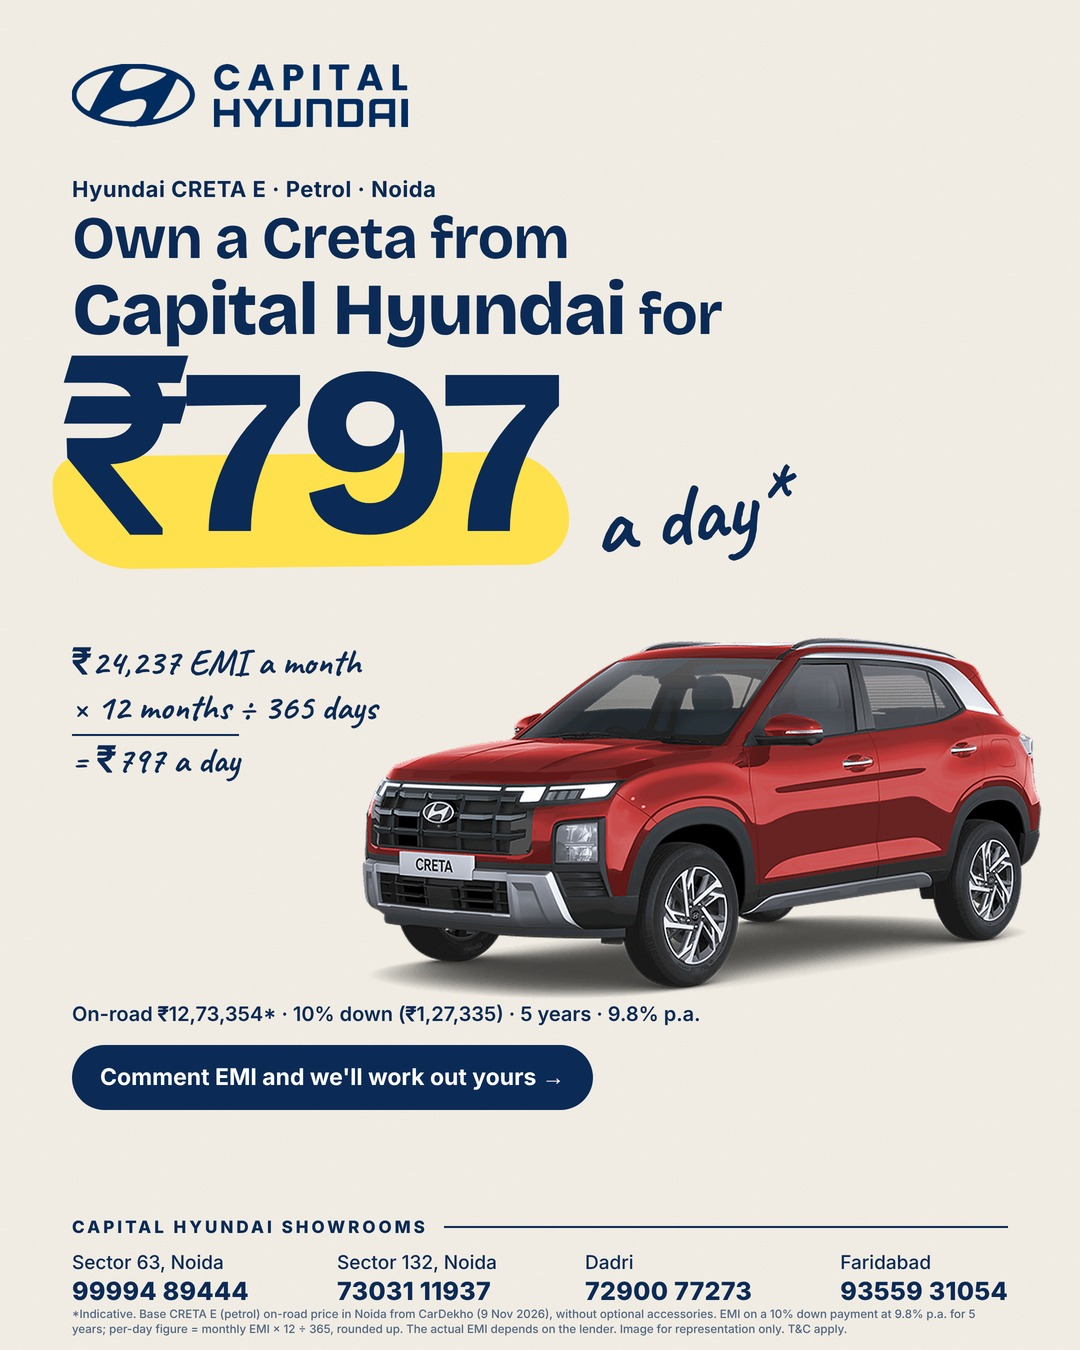
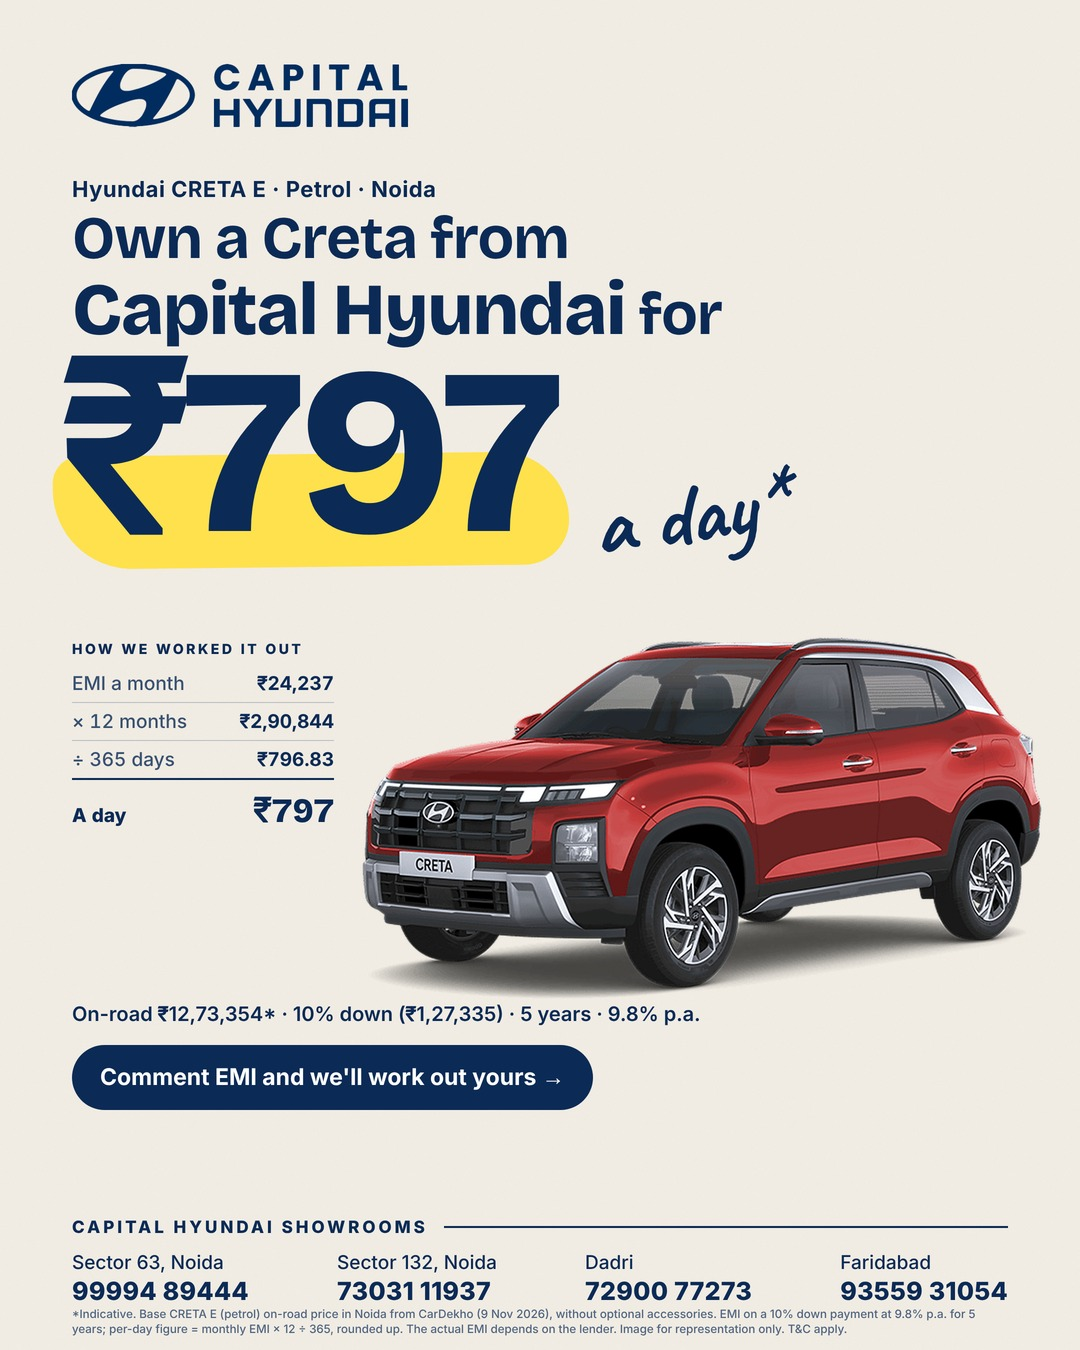
Capital EMI posts: typeset the per-day working instead of handwriting
Claude-Session: https://claude.ai/code/session_01M3cxh6DXP8nRoWZuXRG63R

Changed region(s): [[0.0611, 0.4667, 0.3361, 0.6222]]

diff --git a/statics/review_card/ch2.html b/statics/review_card/ch2.html
@@ -58,8 +58,12 @@ footer{position:absolute;left:72px;right:72px;bottom:44px;z-index:3}
 .em .big{position:absolute;left:62px;top:var(--bt,272px);font-family:Brico;font-weight:800;font-size:var(--bs,250px);letter-spacing:-8px;line-height:1;z-index:2}
 .em .big mark:before{top:.6em;bottom:.12em;left:-.04em;right:-.06em}
 .em .car{position:absolute;z-index:2}
-.calc{position:absolute;left:72px;top:var(--ct2,600px);z-index:3;font-family:Hand;font-weight:700;font-size:36px;line-height:1.25}
-.calc .ln{display:inline-block;border-top:2.5px solid var(--navy);margin-top:4px;padding-top:2px}
+.calc{position:absolute;left:72px;top:var(--ct2,600px);width:var(--cw2,286px);z-index:3;font-family:Inter;font-variant-numeric:tabular-nums}
+.calc .ch{font-weight:800;font-size:14px;letter-spacing:2.5px;margin-bottom:8px}
+.calc .r{display:flex;justify-content:space-between;align-items:baseline;padding:7px 0;border-bottom:1px solid rgba(11,42,85,.22);font-size:19px}
+.calc .r span{font-weight:500;opacity:.8}.calc .r b{font-weight:700}
+.calc .t{display:flex;justify-content:space-between;align-items:baseline;padding-top:9px;border-top:2px solid var(--navy);margin-top:-1px}
+.calc .t span{font-weight:800;font-size:19px}.calc .t b{font-family:Brico;font-weight:800;font-size:34px;letter-spacing:-.5px}
 .det{position:absolute;left:72px;right:72px;top:var(--dt,1000px);font-weight:600;font-size:20px;line-height:1.45;z-index:3}
 .pill{display:inline-flex;align-items:center;gap:12px;background:var(--navy);color:#fff;border-radius:60px;padding:16px 28px;font-weight:700;font-size:23px;margin-top:16px}
 /* spec */
@@ -133,7 +137,7 @@ function render(c){
   <div class="stars"><i>★★★★★</i>${c.when||''}</div><div class="rtext">${c.text}</div></div>`;
  } else if(c.kind==='emiday'){
   h+=`<div class="kick">${c.kicker}</div><div class="l1">${c.l1}</div><div class="big">${c.big}</div>${car(c)}
-  <div class="calc">${c.calc}</div><div class="det">${c.det}<br><span class="pill">${c.cta}</span></div>`;
+  <div class="calc">${Array.isArray(c.calc)?`<div class="ch">HOW WE WORKED IT OUT</div>${c.calc.slice(0,-1).map(r=>`<div class="r"><span>${r[0]}</span><b>${r[1]}</b></div>`).join('')}<div class="t"><span>${c.calc.at(-1)[0]}</span><b>${c.calc.at(-1)[1]}</b></div>`:c.calc}</div><div class="det">${c.det}<br><span class="pill">${c.cta}</span></div>`;
  } else if(c.kind==='sheet'){
   h+=`<div class="kick"><span>${c.kicker}</span><small>${c.sheetno||''}</small></div><h1>${c.headline}</h1>${car(c)}${sheet(c)}
   <div class="legend">${c.legend.map((t,i)=>`<div><i>${i+1}</i>${t}</div>`).join('')}</div>

diff --git a/statics/review_card/README.md b/statics/review_card/README.md
@@ -121,7 +121,9 @@ Fonts: `npm install @fontsource/bricolage-grotesque @fontsource/inter @fontsourc
   a handwritten thank-you to the staff the customer named. Keep the review text exactly as on Google (no rewriting:
   it is shown like a screenshot), only the highlights are ours; the name is the tracker's "Name for post".
 - `emiday`: "Own a Creta for ₹797 a day*": monthly EMI × 12 ÷ 365, rounded up so the post never understates it,
-  with the working shown in handwriting, the on-road price, down payment, tenure and rate, a comment-EMI pill and
+  with the working typeset as a small table ("How we worked it out": EMI a month, × 12 months, ÷ 365 days, A day;
+  Inter with tabular figures; the user, 26 Nov 2026, found the handwritten working "childish"; `calc` is a list of
+  [label, value] rows, the last one is the result), the on-road price, down payment, tenure and rate, a comment-EMI pill and
   the assumptions in the fine print.
 - `spec`: the model name set huge behind the car, the car (hyundai.com/in 360-viewer studio PNG with its own shadow)
   over its lower part, two handwritten callouts with arrows to real parts (headlamps, alloys), headline and chips.
